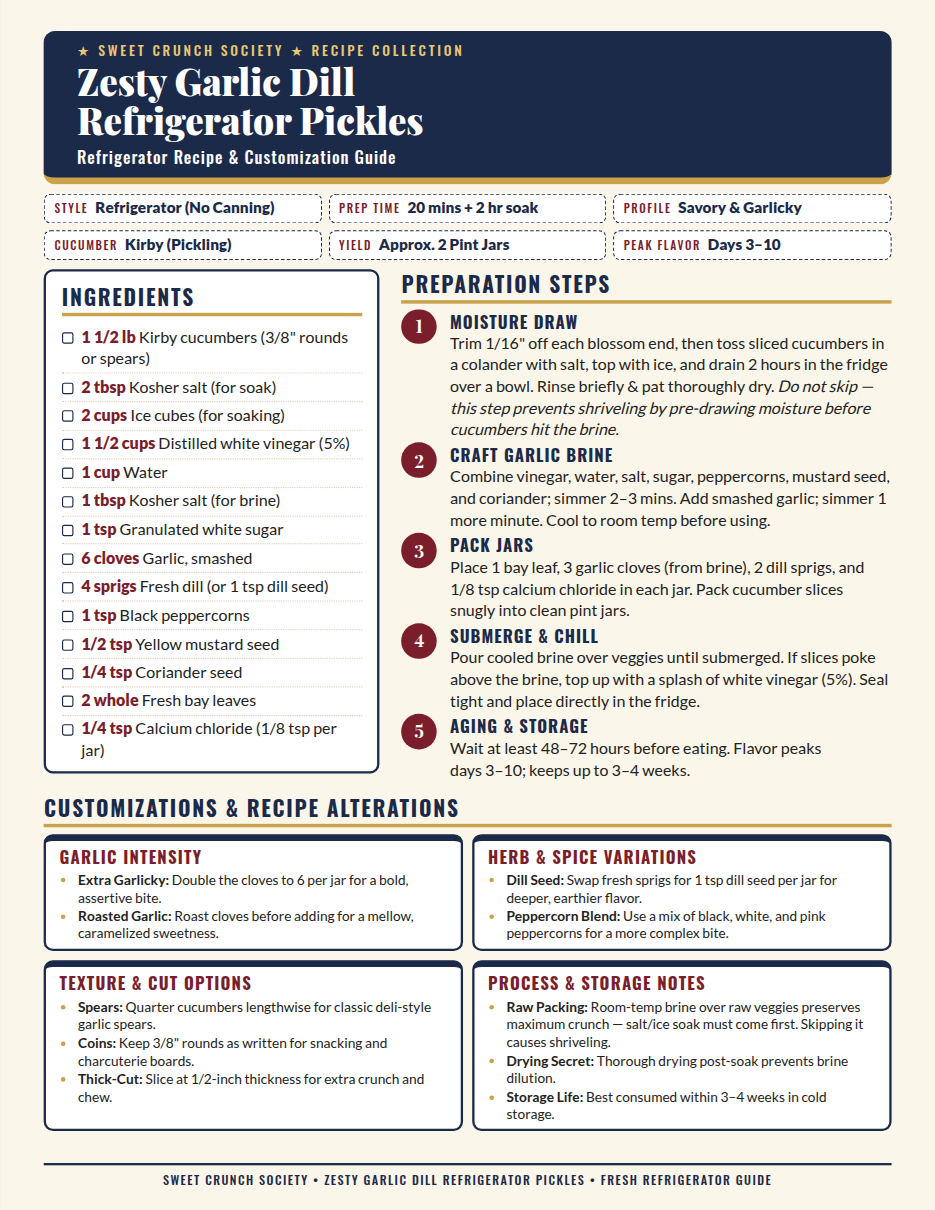
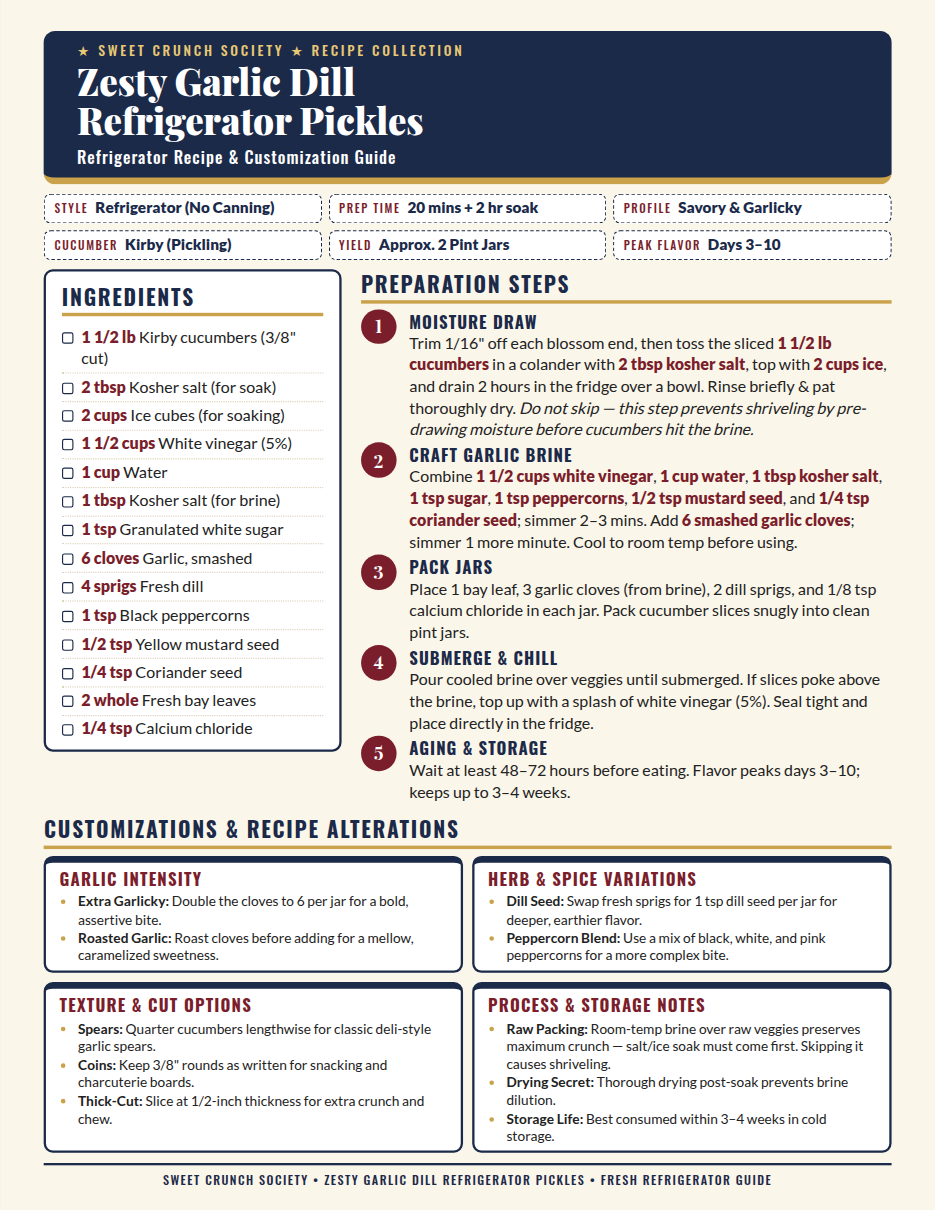
feat: put ingredient amounts inline in the prep steps on both cards
Reading the steps meant constantly looking back at the ingredient box
to find quantities (e.g. "simmer vinegar, sugar, spices" with no
amounts). Steps now carry their own amounts so each one can be followed
on its own.

index.html and index-zesty.html
- Step 1 (Moisture Draw) and Step 2 (brine) now list every ingredient
  with its amount in bold burgundy via a new `ol.steps strong` style,
  matching the ingredient list styling. Step 3 already had per-jar
  amounts; steps 4-5 needed none.
- Ingredient list kept as a prep/shopping checklist.
- Ingredient column narrowed 3.05in -> 2.7in (gap 0.2in -> 0.18in) so
  the steps column is wider and the longer steps still fit one page.

index-zesty.html
- Shortened ingredient labels so they stop wrapping and inflating the
  ingredient box: cucumbers "(3/8" cut)", "White vinegar (5%)", "Fresh
  dill", "Calcium chloride". The 1 tsp dill seed swap remains in the
  Herb & Spice card; the 1/8 tsp per jar amount remains in Step 3.

docs
- Regenerated preview.png and preview-zesty.png. Both cards verified to
  fit one Letter page (zesty is tight, ~9px above the footer).

Changed region(s): [[0.031, 0.214, 0.9615, 0.9479], [0.093, 0.2752, 0.1551, 0.3058], [0.9305, 0.9174, 0.9615, 0.9479]]

diff --git a/index-zesty.html b/index-zesty.html
@@ -67,7 +67,7 @@
   .stats .v { font-weight: 900; color: var(--dill); font-size: 10pt; }
 
   /* Main two columns */
-  .cols { display: grid; grid-template-columns: 3.05in 1fr; gap: 0.2in; }
+  .cols { display: grid; grid-template-columns: 2.7in 1fr; gap: 0.18in; }
   h2.sec {
     font-family: 'Oswald', sans-serif; text-transform: uppercase; letter-spacing: .08em;
     font-size: 14pt; color: var(--dill); border-bottom: 3px solid var(--gold);
@@ -97,6 +97,7 @@
     font-family: 'Playfair Display', serif; font-weight: 700; font-size: 12pt;
     font-variant-numeric: lining-nums; /* old-style figures sit off-center in the dot */
   }
+  ol.steps strong { color: var(--brick); font-weight: 900; } /* inline amounts */
   ol.steps b { font-family: 'Oswald', sans-serif; text-transform: uppercase; letter-spacing: .06em; color: var(--dill); font-size: 11pt; display: block; }
 
   /* Customizations */
@@ -139,20 +140,20 @@
         <div class="ingredients">
           <h2 class="sec" id="ing">Ingredients</h2>
           <ul>
-            <li><span class="box"></span><span><b>1 1/2 lb</b> Kirby cucumbers (3/8" rounds or spears)</span></li>
+            <li><span class="box"></span><span><b>1 1/2 lb</b> Kirby cucumbers (3/8" cut)</span></li>
             <li><span class="box"></span><span><b>2 tbsp</b> Kosher salt (for soak)</span></li>
             <li><span class="box"></span><span><b>2 cups</b> Ice cubes (for soaking)</span></li>
-            <li><span class="box"></span><span><b>1 1/2 cups</b> Distilled white vinegar (5%)</span></li>
+            <li><span class="box"></span><span><b>1 1/2 cups</b> White vinegar (5%)</span></li>
             <li><span class="box"></span><span><b>1 cup</b> Water</span></li>
             <li><span class="box"></span><span><b>1 tbsp</b> Kosher salt (for brine)</span></li>
             <li><span class="box"></span><span><b>1 tsp</b> Granulated white sugar</span></li>
             <li><span class="box"></span><span><b>6 cloves</b> Garlic, smashed</span></li>
-            <li><span class="box"></span><span><b>4 sprigs</b> Fresh dill (or 1 tsp dill seed)</span></li>
+            <li><span class="box"></span><span><b>4 sprigs</b> Fresh dill</span></li>
             <li><span class="box"></span><span><b>1 tsp</b> Black peppercorns</span></li>
             <li><span class="box"></span><span><b>1/2 tsp</b> Yellow mustard seed</span></li>
             <li><span class="box"></span><span><b>1/4 tsp</b> Coriander seed</span></li>
             <li><span class="box"></span><span><b>2 whole</b> Fresh bay leaves</span></li>
-            <li><span class="box"></span><span><b>1/4 tsp</b> Calcium chloride (1/8 tsp per jar)</span></li>
+            <li><span class="box"></span><span><b>1/4 tsp</b> Calcium chloride</span></li>
           </ul>
         </div>
       </section>
@@ -160,8 +161,8 @@
       <section aria-labelledby="prep">
         <h2 class="sec" id="prep">Preparation Steps</h2>
         <ol class="steps">
-          <li><b>Moisture Draw</b>Trim 1/16" off each blossom end, then toss sliced cucumbers in a colander with salt, top with ice, and drain 2 hours in the fridge over a bowl. Rinse briefly &amp; pat thoroughly dry. <em>Do not skip — this step prevents shriveling by pre-drawing moisture before cucumbers hit the brine.</em></li>
-          <li><b>Craft Garlic Brine</b>Combine vinegar, water, salt, sugar, peppercorns, mustard seed, and coriander; simmer 2–3 mins. Add smashed garlic; simmer 1 more minute. Cool to room temp before using.</li>
+          <li><b>Moisture Draw</b>Trim 1/16" off each blossom end, then toss the sliced <strong>1 1/2 lb cucumbers</strong> in a colander with <strong>2 tbsp kosher salt</strong>, top with <strong>2 cups ice</strong>, and drain 2 hours in the fridge over a bowl. Rinse briefly &amp; pat thoroughly dry. <em>Do not skip — this step prevents shriveling by pre-drawing moisture before cucumbers hit the brine.</em></li>
+          <li><b>Craft Garlic Brine</b>Combine <strong>1 1/2 cups white vinegar</strong>, <strong>1 cup water</strong>, <strong>1 tbsp kosher salt</strong>, <strong>1 tsp sugar</strong>, <strong>1 tsp peppercorns</strong>, <strong>1/2 tsp mustard seed</strong>, and <strong>1/4 tsp coriander seed</strong>; simmer 2–3 mins. Add <strong>6 smashed garlic cloves</strong>; simmer 1 more minute. Cool to room temp before using.</li>
           <li><b>Pack Jars</b>Place 1 bay leaf, 3 garlic cloves (from brine), 2 dill sprigs, and 1/8 tsp calcium chloride in each jar. Pack cucumber slices snugly into clean pint jars.</li>
           <li><b>Submerge &amp; Chill</b>Pour cooled brine over veggies until submerged. If slices poke above the brine, top up with a splash of white vinegar (5%). Seal tight and place directly in the fridge.</li>
           <li><b>Aging &amp; Storage</b>Wait at least 48–72 hours before eating. Flavor peaks <span style="white-space:nowrap">days 3–10</span>; keeps up to 3–4 weeks.</li>

diff --git a/index.html b/index.html
@@ -67,7 +67,7 @@
   .stats .v { font-weight: 900; color: var(--dill); font-size: 10pt; }
 
   /* Main two columns */
-  .cols { display: grid; grid-template-columns: 3.05in 1fr; gap: 0.2in; }
+  .cols { display: grid; grid-template-columns: 2.7in 1fr; gap: 0.18in; }
   h2.sec {
     font-family: 'Oswald', sans-serif; text-transform: uppercase; letter-spacing: .08em;
     font-size: 14pt; color: var(--dill); border-bottom: 3px solid var(--gold);
@@ -97,6 +97,7 @@
     font-family: 'Playfair Display', serif; font-weight: 700; font-size: 12pt;
     font-variant-numeric: lining-nums; /* old-style figures sit off-center in the dot */
   }
+  ol.steps strong { color: var(--brick); font-weight: 900; } /* inline amounts */
   ol.steps b { font-family: 'Oswald', sans-serif; text-transform: uppercase; letter-spacing: .06em; color: var(--dill); font-size: 11pt; display: block; }
 
   /* Customizations */
@@ -160,8 +161,8 @@
       <section aria-labelledby="prep">
         <h2 class="sec" id="prep">Preparation Steps</h2>
         <ol class="steps">
-          <li><b>Moisture Draw</b>Trim 1/16" off each blossom end, then toss sliced cucumbers in a colander with salt, top with ice, and drain 2 hours in the fridge over a bowl. Rinse briefly &amp; pat thoroughly dry. <em>Do not skip — this step prevents shriveling by pre-drawing moisture before cucumbers hit the high-sugar brine.</em></li>
-          <li><b>Craft Sweet Brine</b>Simmer white vinegar, white &amp; brown sugar, salt, mustard seed, celery seed, turmeric, and cloves 2–3 mins until sugar dissolves. Cool to room temp before using.</li>
+          <li><b>Moisture Draw</b>Trim 1/16" off each blossom end, then toss the sliced <strong>1 1/2 lb cucumbers</strong> in a colander with <strong>2 tbsp kosher salt</strong>, top with <strong>2 cups ice</strong>, and drain 2 hours in the fridge over a bowl. Rinse briefly &amp; pat thoroughly dry. <em>Do not skip — this step prevents shriveling by pre-drawing moisture before cucumbers hit the high-sugar brine.</em></li>
+          <li><b>Craft Sweet Brine</b>Simmer <strong>1 1/2 cups white vinegar</strong>, <strong>1 1/4 cups white sugar</strong>, <strong>1/4 cup brown sugar</strong>, <strong>1/2 tsp kosher salt</strong>, <strong>1 tbsp mustard seed</strong>, <strong>3/4 tsp celery seed</strong>, <strong>1/2 tsp turmeric</strong>, and <strong>1/8 tsp ground cloves</strong> 2–3 mins until sugar dissolves. Cool to room temp before using.</li>
           <li><b>Pack Jars</b>Place 1 bay leaf, 1 pearl onion, and 1/8 tsp calcium chloride in each jar. Pack raw cucumber slices snugly into clean pint jars.</li>
           <li><b>Submerge &amp; Chill</b>Pour cooled brine over veggies until submerged. If slices poke above the brine, top up with a splash of white vinegar (5%). Seal tight and place directly in the fridge.</li>
           <li><b>Aging &amp; Storage</b>Chill at least 24–48 hours before eating. Flavors peak <span style="white-space:nowrap">days 5–14</span>; keeps up to 1 month.</li>
